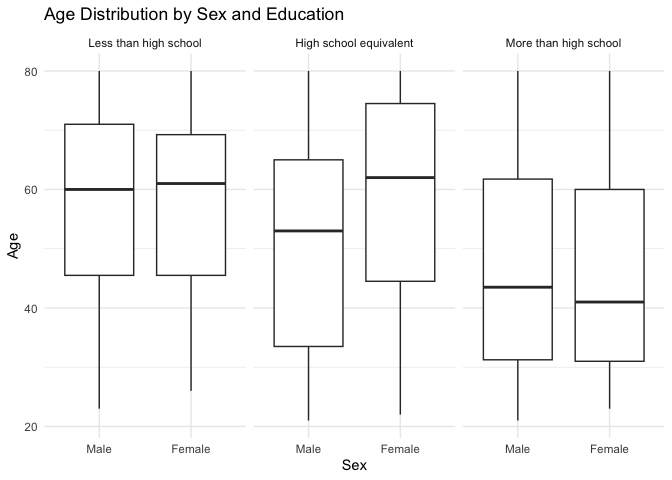
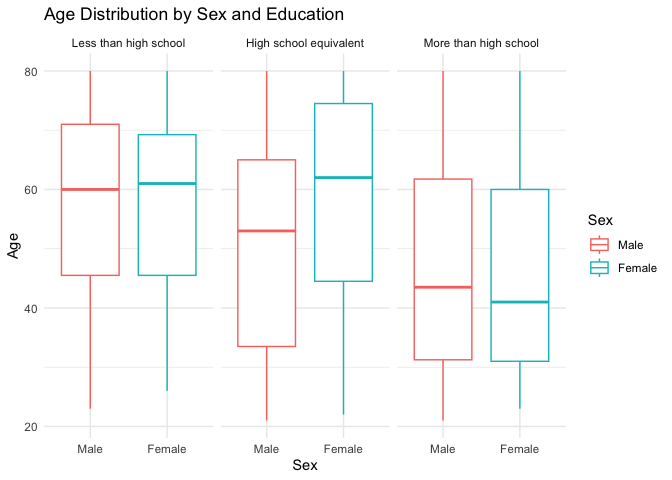
Complete Problem 3

diff --git a/p8105_hw3_yc4959.md b/p8105_hw3_yc4959.md
@@ -467,13 +467,14 @@ Plot age distributions by sex and education
 
 ``` r
 participant_df |>
-  ggplot(aes(x = sex, y = age)) +
+  ggplot(aes(x = sex, y = age, color = sex)) +
   geom_boxplot() +
   facet_grid(. ~ education) +
   labs(
     title = "Age Distribution by Sex and Education",
     x = "Sex",
-    y = "Age"
+    y = "Age",
+    color = "Sex"
   ) +
   theme_minimal()
 ```
@@ -701,10 +702,6 @@ head(july_2024_df)
     ## 6 ACA61A92B… classic_bike  Saturday     7.83 E 1 St & 1 Ave     Mercer St & Spr…
     ## # ℹ 1 more variable: member_casual <chr>
 
-Produce a reader-friendly table showing the total number of rides in
-each combination of year and month separating casual riders and Citi
-Bike members. Comment on these results.
-
 Add year and month
 
 ``` r
@@ -794,3 +791,166 @@ The combined Citi Bike dataset has 99,485 rides and 9 variables. The
 data comes from January and July in both 2020 and 2024. These variables
 are ride ID, bike type, weekday, ride duration, start and end station
 names, membership type, year, and month.
+
+Produce a reader-friendly table showing the total number of rides in
+each combination of year and month separating casual riders and Citi
+Bike members. Comment on these results.
+
+Create a reader-friendly table
+
+``` r
+ride_count_df =
+  citi_df |>
+  count(year, month, member_casual)
+
+ride_count_table =
+  ride_count_df |>
+  pivot_wider(
+    names_from = member_casual,
+    values_from = n
+  )
+ride_count_table
+```
+
+    ## # A tibble: 4 × 4
+    ##    year month   casual member
+    ##   <dbl> <chr>    <int>  <int>
+    ## 1  2020 January    984  11436
+    ## 2  2020 July      5637  15411
+    ## 3  2024 January   2108  16753
+    ## 4  2024 July     10894  36262
+
+There are more member rides than casual rides in all four groups.
+January 2020 has much fewer casual rides than the other groups, while
+July 2024 has much more member rides.
+
+Make a table showing the 5 most popular starting stations for July 2024;
+include the number of rides originating from these stations.
+
+Keep rides from July 2024
+
+``` r
+july_2024 =
+  citi_df |>
+  filter(year == 2024, month == "July")
+```
+
+Count 5 most popular starting station
+
+``` r
+july_2024 |>
+  count(start_station_name) |>
+  arrange(desc(n)) |>
+  head(5)
+```
+
+    ## # A tibble: 5 × 2
+    ##   start_station_name           n
+    ##   <chr>                    <int>
+    ## 1 Pier 61 at Chelsea Piers   163
+    ## 2 University Pl & E 14 St    155
+    ## 3 W 21 St & 6 Ave            152
+    ## 4 West St & Chambers St      150
+    ## 5 W 31 St & 7 Ave            146
+
+These are the top five starting stations in July 2024.
+
+Make a plot to investigate the effects of day of the week, month, and
+year on median ride duration. This plot can include one or more panels,
+but should facilitate comparison across all variables of interest.
+Comment on your observations from this plot.
+
+Calculate median ride duration
+
+``` r
+median_duration_df =
+  citi_df |>
+  group_by(year, month, weekdays) |>
+  summarize(median_duration = median(duration)) |>
+  ungroup()
+```
+
+    ## `summarise()` has regrouped the output.
+    ## ℹ Summaries were computed grouped by year, month, and weekdays.
+    ## ℹ Output is grouped by year and month.
+    ## ℹ Use `summarise(.groups = "drop_last")` to silence this message.
+    ## ℹ Use `summarise(.by = c(year, month, weekdays))` for per-operation grouping
+    ##   (`?dplyr::dplyr_by`) instead.
+
+Order weekdays
+
+``` r
+median_duration_df =
+  median_duration_df |>
+  mutate(
+    weekdays = factor(
+      weekdays,
+      levels = c(
+        "Monday", "Tuesday", "Wednesday", "Thursday",
+        "Friday", "Saturday", "Sunday"
+      ),
+      ordered = TRUE
+    )
+  )
+```
+
+``` r
+median_duration_df |>
+  ggplot(aes(x = weekdays, y = median_duration, color = month, group = month)) +
+  geom_point() +
+  geom_line() +
+  facet_grid(. ~ year) +
+  labs(
+    title = "Median Ride Duration by Weekday, Month, and Year",
+    x = "Weekday",
+    y = "Median Ride Duration (minutes)",
+    color = "Month"
+  ) +
+  theme_minimal()
+```
+
+![](p8105_hw3_yc4959_files/figure-gfm/unnamed-chunk-42-1.png)<!-- -->
+
+There were relatively few electric Citi Bikes in 2020, but many more are
+available now. For data in 2024, make a figure that shows the impact of
+month, membership status, and bike type on the distribution of ride
+duration. Comment on your results.
+
+Keep rides from 2024 and check bike types
+
+``` r
+citi_2024 =
+  citi_df |>
+  filter(year == 2024)
+citi_2024 |>
+  count(rideable_type)
+```
+
+    ## # A tibble: 2 × 2
+    ##   rideable_type     n
+    ##   <chr>         <int>
+    ## 1 classic_bike  23006
+    ## 2 electric_bike 43011
+
+Plot ride duration distributions in 2024
+
+``` r
+citi_2024 |>
+  ggplot(aes(x = duration, color = rideable_type)) +
+  geom_density() +
+  facet_grid(member_casual ~ month) +
+  labs(
+    title = "Ride Duration Distribution in 2024",
+    x = "Ride Duration (minutes)",
+    y = "Density",
+    color = "Bike Type"
+  ) +
+  theme_minimal()
+```
+
+![](p8105_hw3_yc4959_files/figure-gfm/unnamed-chunk-44-1.png)<!-- -->
+
+In all groups, ride duration is right-skewed. This means most rides are
+short. Casual riders have a wider range of ride times than members,
+mostly in July. The patterns for classic bikes and electric bikes are
+about the same.
